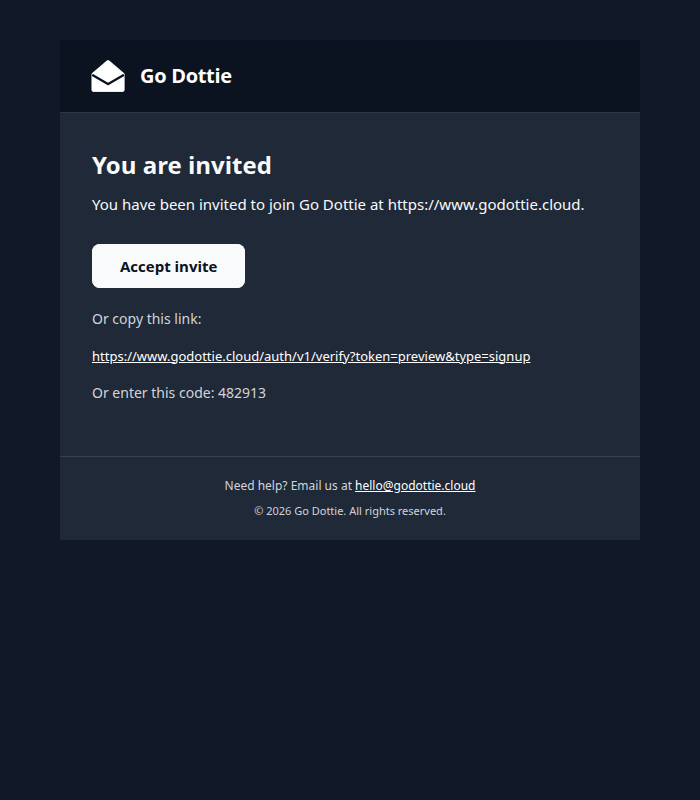
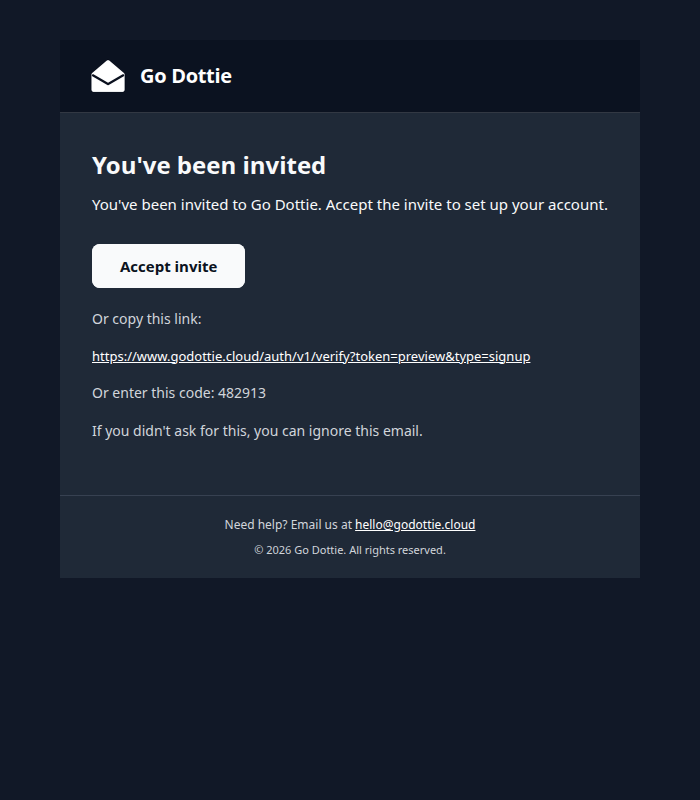
Say Go Dottie in the enquiries UI and update the invite email.

diff --git a/src/components/enquiries/SetupWizard.tsx b/src/components/enquiries/SetupWizard.tsx
@@ -277,8 +277,8 @@ export default function SetupWizard() {
 
       {step === 0 && (
         <section className="space-y-4">
-          <h1 className="text-2xl font-extrabold text-gray-900">Tell Dottie about your setting</h1>
-          <p className="text-gray-500 text-sm">This is how she introduces you to new parents. Use the name they already know.</p>
+          <h1 className="text-2xl font-extrabold text-gray-900">Tell Go Dottie about your setting</h1>
+          <p className="text-gray-500 text-sm">This is how it introduces you to new parents. Use the name they already know.</p>
           <div className="space-y-1.5">
             <Label>Your name</Label>
             <Input value={displayName} onChange={(e) => setDisplayName(e.target.value)} placeholder="Mary" />
@@ -317,7 +317,7 @@ export default function SetupWizard() {
             <Input type="number" min={0} step="0.01" value={dayRate} onChange={(e) => setDayRate(e.target.value)} placeholder="65" />
             <label className="flex items-center gap-2 text-sm text-gray-600 pt-1">
               <input type="checkbox" checked={quoteFees} onChange={(e) => setQuoteFees(e.target.checked)} />
-              Dottie may mention this rate in emails
+              Go Dottie may mention this rate in emails
             </label>
           </div>
         </section>
@@ -326,7 +326,7 @@ export default function SetupWizard() {
       {step === 1 && (
         <section className="space-y-4">
           <h1 className="text-2xl font-extrabold text-gray-900">Which days have space?</h1>
-          <p className="text-gray-500 text-sm">Only tick days you could take a new child. Dottie will never offer a day you leave blank.</p>
+          <p className="text-gray-500 text-sm">Only tick days you could take a new child. Go Dottie will never offer a day you leave blank.</p>
           <div className="space-y-2">
             {vacancies.map((v, i) => {
               const day = WEEKDAYS.find((d) => d.id === v.weekday)!
@@ -426,7 +426,7 @@ export default function SetupWizard() {
       {step === 3 && (
         <section className="space-y-4">
           <h1 className="text-2xl font-extrabold text-gray-900">When can parents visit?</h1>
-          <p className="text-gray-500 text-sm">Dottie only offers these times. Pick evenings after the children have gone home.</p>
+          <p className="text-gray-500 text-sm">Go Dottie only offers these times. Pick evenings after the children have gone home.</p>
           <label className="flex items-center gap-2 font-medium">
             <input type="checkbox" checked={tueEve} onChange={(e) => setTueEve(e.target.checked)} />
             Tuesday evening
@@ -456,7 +456,7 @@ export default function SetupWizard() {
         <section className="space-y-4">
           <h1 className="text-2xl font-extrabold text-gray-900">Your answers</h1>
           <p className="text-gray-500 text-sm">
-            Dottie only uses what you write here. If you leave an answer blank, she will say she will check with you.
+            Go Dottie only uses what you write here. If you leave an answer blank, it will say it will check with you.
           </p>
           {faqs.map((f, i) => (
             <div key={i} className="rounded-2xl border border-gray-100 bg-white p-4 space-y-2">
@@ -508,12 +508,12 @@ export default function SetupWizard() {
               onChange={(e) => setPackNotes(e.target.value)}
               placeholder="I email my parent contract, child information form, and privacy notice. Settling-in is two mornings in the first week."
             />
-            <p className="text-xs text-gray-400">You can attach the real PDFs later. For now, tell Dottie what the pack includes.</p>
+            <p className="text-xs text-gray-400">You can attach the real PDFs later. For now, tell Go Dottie what the pack includes.</p>
           </div>
           <div className="rounded-2xl border border-gray-100 bg-white p-4 space-y-4">
             <p className="text-sm font-semibold text-gray-900">Your letter</p>
             <p className="text-xs text-gray-500">
-              Dottie always writes: greeting, the place, hours if needed, a visit ask, then your name. You can add a line and turn waitlist on or off.
+              Go Dottie always writes: greeting, the place, hours if needed, a visit ask, then your name. You can add a line and turn waitlist on or off.
             </p>
             <div className="space-y-2">
               <p className="text-sm font-medium text-gray-800">When you win a place</p>
@@ -568,7 +568,7 @@ export default function SetupWizard() {
             </div>
             {learnedNuances.length > 0 ? (
               <div className="space-y-2">
-                <Label>What Dottie has learned</Label>
+                <Label>What Go Dottie has learned</Label>
                 <ul className="space-y-2">
                   {learnedNuances.map((n, i) => (
                     <li key={`${n}-${i}`} className="flex items-start gap-2 text-sm text-gray-700">
@@ -586,7 +586,7 @@ export default function SetupWizard() {
                 </ul>
               </div>
             ) : (
-              <p className="text-xs text-gray-400">When a draft sounds like you, tap Remember this wording on the parent page. Dottie will reuse those lines.</p>
+              <p className="text-xs text-gray-400">When a draft sounds like you, tap Remember this wording on the parent page. Go Dottie will reuse those lines.</p>
             )}
           </div>
           <div className="rounded-2xl border border-gray-100 bg-white p-4 space-y-3">
@@ -599,7 +599,7 @@ export default function SetupWizard() {
                 placeholder="Optional. Example: Don't mention the dog. Always offer a Saturday if I have listed it."
               />
               <p className="text-xs text-gray-400">
-                These sit under Dottie&apos;s locked rules: polite enquiry letters whose job is to secure a visit.
+                These sit under Go Dottie&apos;s locked rules: polite enquiry letters whose job is to secure a visit.
               </p>
             </div>
           </div>
@@ -613,7 +613,7 @@ export default function SetupWizard() {
 
       {step === 5 && (
         <section className="space-y-4">
-          <h1 className="text-2xl font-extrabold text-gray-900">How should Dottie send?</h1>
+          <h1 className="text-2xl font-extrabold text-gray-900">How should Go Dottie send?</h1>
           <p className="text-gray-500 text-sm">
             You can change this later on New parents. Auto-send is the default. Draft &amp; approve is opt-in. Pause always stops reading Gmail, drafts, and sends.
           </p>

diff --git a/src/app/(dashboard)/enquiries/[id]/ProspectDetail.tsx b/src/app/(dashboard)/enquiries/[id]/ProspectDetail.tsx
@@ -130,7 +130,7 @@ export default function ProspectDetail({
         setDraftBody(data.draft?.body || '')
         toast.success(
           data.needsHuman
-            ? 'Dottie needs you — she was not sure enough to send this.'
+            ? 'Go Dottie needs you — it was not sure enough to send this.'
             : 'Draft ready — read it, then approve to send from Gmail.',
         )
       }
@@ -186,7 +186,7 @@ export default function ProspectDetail({
       toast.success(
         sendMode === 'auto'
           ? 'Sent from your Gmail.'
-          : 'Sent from your Gmail. Dottie will not send again unless you approve.',
+          : 'Sent from your Gmail. Go Dottie will not send again unless you approve.',
       )
       router.refresh()
     } catch (err) {
@@ -265,8 +265,8 @@ export default function ProspectDetail({
 
       {prospect.needs_human ? (
         <div className="rounded-2xl bg-amber-50 border border-amber-200 p-4 text-sm text-amber-950 space-y-2">
-          <p className="font-semibold">Dottie needs you</p>
-          <p>She could not answer this with full confidence, so she did not send it.</p>
+          <p className="font-semibold">Go Dottie needs you</p>
+          <p>It could not answer this with full confidence, so it did not send it.</p>
           <ul className="list-disc pl-5 space-y-1">
             {(prospect.escalate_reasons || []).map((r) => (
               <li key={r}>{(ESCALATE_LABELS as Record<string, string>)[r] || r}</li>
@@ -287,7 +287,7 @@ export default function ProspectDetail({
         <div className="rounded-2xl border border-emerald-100 bg-white p-4 space-y-4">
           <p className="font-semibold text-gray-900">Add to Your answers</p>
           <p className="text-sm text-gray-500">
-            Dottie can remember this for next time. Approve only setting facts, never a child&apos;s health.
+            Go Dottie can remember this for next time. Approve only setting facts, never a child&apos;s health.
           </p>
           {pending.map((item) => (
             <PendingFactCard
@@ -301,7 +301,7 @@ export default function ProspectDetail({
 
       {agentPaused ? (
         <p className="text-sm text-amber-900 bg-amber-50 border border-amber-200 rounded-2xl px-4 py-3">
-          Dottie is paused. Turn her back on from New parents to read Gmail, draft, or send.
+          Go Dottie is paused. Turn it back on from New parents to read Gmail, draft, or send.
         </p>
       ) : null}
 
@@ -378,7 +378,7 @@ export default function ProspectDetail({
       {prospect.stage === 'started' ? (
         <div className="rounded-2xl bg-emerald-50 border border-emerald-200 p-4 text-sm text-emerald-950 space-y-2">
           <p className="font-semibold">Onboarded</p>
-          <p>Dottie can raise invoices from their days and rates. Parents pay by bank transfer — not through Dottie.</p>
+          <p>Go Dottie can raise invoices from their days and rates. Payments go straight to you, not to Go Dottie.</p>
           <Link
             href="/invoices/new"
             className="inline-flex items-center h-10 px-4 rounded-xl bg-emerald-600 hover:bg-emerald-700 text-white text-sm font-medium"
@@ -437,7 +437,7 @@ export default function ProspectDetail({
           </div>
           <p className="text-xs text-gray-400">
             {gmailConnected
-              ? `Sends as ${gmailEmail} on the Gmail thread — not from a Dottie address.`
+              ? `Sends as ${gmailEmail} on the Gmail thread — not from a Go Dottie address.`
               : 'Connect Gmail on the inbox so Go Dottie can send as you on the real thread.'}
           </p>
         </div>

diff --git a/src/app/(dashboard)/enquiries/page.tsx b/src/app/(dashboard)/enquiries/page.tsx
@@ -74,9 +74,9 @@ export default async function EnquiriesPage({
           <h1 className="text-2xl font-bold text-gray-900">New parents</h1>
           <p className="text-gray-500 text-sm mt-1">
             {settings.agent_paused
-              ? 'Dottie is paused — she will not read Gmail, draft, or send until you turn her back on.'
+              ? 'Go Dottie is paused — it will not read Gmail, draft, or send until you turn it back on.'
               : sendMode === 'auto'
-                ? 'New parent emails from Gmail show up here. Auto-send is on: Dottie replies on the real Gmail thread.'
+                ? 'New parent emails from Gmail show up here. Auto-send is on: Go Dottie replies on the real Gmail thread.'
                 : 'New parent emails from Gmail show up here. Draft & approve is on — nothing sends until you tap Approve.'}
           </p>
         </div>
@@ -109,9 +109,9 @@ export default async function EnquiriesPage({
           <p className="font-semibold text-gray-900 mb-2">No one waiting</p>
           <p className="text-gray-500 text-sm max-w-md mx-auto mb-6">
             {settings.agent_paused
-              ? 'Dottie is paused, so she is not checking Gmail. Turn her back on when you want new parent emails to land here.'
+              ? 'Go Dottie is paused, so it is not checking Gmail. Turn it back on when you want new parent emails to land here.'
               : gmailAccount?.email
-                ? 'Label parent emails Enquiries or New parent in Gmail. Dottie only saves classified enquiry threads — receipts and personal mail are never stored.'
+                ? 'Label parent emails Enquiries or New parent in Gmail. Go Dottie only saves classified enquiry threads — receipts and personal mail are never stored.'
                 : 'Connect Gmail above, or tap Add a parent and paste a message. Go Dottie drafts a polite visit letter and, with Auto-send on, sends it from your Gmail.'}
           </p>
           <Link href="/enquiries/new" className="text-emerald-700 font-semibold">

diff --git a/docs/email-renders/authInviteUser.html b/docs/email-renders/authInviteUser.html
@@ -62,8 +62,8 @@
           <tr>
             <td class="email-card ink" style="background-color:#ffffff;padding:36px 32px;color:#0b1220;">
               
-      <h1 class="ink" style="margin:0 0 12px;font-size:24px;font-weight:700;line-height:1.3;color:#0b1220;">You are invited</h1>
-      <p class="ink" style="margin:0 0 16px;font-size:15px;line-height:1.6;color:#0b1220;">You have been invited to join Go Dottie at https://www.godottie.cloud.</p>
+      <h1 class="ink" style="margin:0 0 12px;font-size:24px;font-weight:700;line-height:1.3;color:#0b1220;">You've been invited</h1>
+      <p class="ink" style="margin:0 0 16px;font-size:15px;line-height:1.6;color:#0b1220;">You've been invited to Go Dottie. Accept the invite to set up your account.</p>
       <table role="presentation" cellpadding="0" cellspacing="0" border="0" style="margin:28px 0 20px;"><tr><td align="left"><table role="presentation" cellpadding="0" cellspacing="0" border="0" class="btn" style="margin:0;">
     <tr>
       <td class="btn-fill" align="center" bgcolor="#0b1220" style="border-radius:8px;background-color:#0b1220;">
@@ -74,6 +74,7 @@
     <p class="muted" style="margin:0 0 16px;font-size:14px;line-height:1.6;color:#5b6573;">Or copy this link:</p>
     <p class="ink" style="margin:0 0 16px;font-size:13px;line-height:1.5;word-break:break-all;color:#0b1220;"><a class="link" href="https://www.godottie.cloud/auth/v1/verify?token=preview&type=signup" style="color:#0b1220;text-decoration:underline;">https://www.godottie.cloud/auth/v1/verify?token=preview&type=signup</a></p>
     <p class="muted" style="margin:0 0 16px;font-size:14px;line-height:1.6;color:#5b6573;">Or enter this code: 482913</p>
+      <p class="muted" style="margin:0 0 16px;font-size:14px;line-height:1.6;color:#5b6573;">If you didn't ask for this, you can ignore this email.</p>
     
             </td>
           </tr>

diff --git a/supabase/templates/auth/invite.html b/supabase/templates/auth/invite.html
@@ -62,8 +62,8 @@
           <tr>
             <td class="email-card ink" style="background-color:#ffffff;padding:36px 32px;color:#0b1220;">
               
-      <h1 class="ink" style="margin:0 0 12px;font-size:24px;font-weight:700;line-height:1.3;color:#0b1220;">You are invited</h1>
-      <p class="ink" style="margin:0 0 16px;font-size:15px;line-height:1.6;color:#0b1220;">You have been invited to join Go Dottie at {{ .SiteURL }}.</p>
+      <h1 class="ink" style="margin:0 0 12px;font-size:24px;font-weight:700;line-height:1.3;color:#0b1220;">You've been invited</h1>
+      <p class="ink" style="margin:0 0 16px;font-size:15px;line-height:1.6;color:#0b1220;">You've been invited to Go Dottie. Accept the invite to set up your account.</p>
       <table role="presentation" cellpadding="0" cellspacing="0" border="0" style="margin:28px 0 20px;"><tr><td align="left"><table role="presentation" cellpadding="0" cellspacing="0" border="0" class="btn" style="margin:0;">
     <tr>
       <td class="btn-fill" align="center" bgcolor="#0b1220" style="border-radius:8px;background-color:#0b1220;">
@@ -74,6 +74,7 @@
     <p class="muted" style="margin:0 0 16px;font-size:14px;line-height:1.6;color:#5b6573;">Or copy this link:</p>
     <p class="ink" style="margin:0 0 16px;font-size:13px;line-height:1.5;word-break:break-all;color:#0b1220;"><a class="link" href="{{ .ConfirmationURL }}" style="color:#0b1220;text-decoration:underline;">{{ .ConfirmationURL }}</a></p>
     <p class="muted" style="margin:0 0 16px;font-size:14px;line-height:1.6;color:#5b6573;">Or enter this code: {{ .Token }}</p>
+      <p class="muted" style="margin:0 0 16px;font-size:14px;line-height:1.6;color:#5b6573;">If you didn't ask for this, you can ignore this email.</p>
     
             </td>
           </tr>

diff --git a/src/components/enquiries/GmailConnect.tsx b/src/components/enquiries/GmailConnect.tsx
@@ -130,7 +130,7 @@ export default function GmailConnect({
       toast.error('Could not update pause.')
       return
     }
-    toast.success(next ? 'Dottie is paused. She will not read Gmail, draft, or send.' : 'Dottie is back on.')
+    toast.success(next ? 'Go Dottie is paused. It will not read Gmail, draft, or send.' : 'Go Dottie is back on.')
     router.refresh()
   }
 
@@ -150,8 +150,8 @@ export default function GmailConnect({
     }
     toast.success(
       next === 'auto'
-        ? 'Auto-send is on. Dottie will send filtered parent replies after she drafts them.'
-        : 'Draft & approve is on. Dottie will not send until you tap Approve.',
+        ? 'Auto-send is on. Go Dottie will send filtered parent replies after it drafts them.'
+        : 'Draft & approve is on. Go Dottie will not send until you tap Approve.',
     )
     router.refresh()
   }
@@ -207,7 +207,7 @@ export default function GmailConnect({
             <p className="font-semibold text-gray-900">Gmail</p>
             {status?.connected ? (
               <p className="text-sm text-gray-500">
-                Connected as {status.account?.email}. Dottie looks for new childcare enquiries and sends as you on the real Gmail thread.
+                Connected as {status.account?.email}. Go Dottie looks for new childcare enquiries and sends as you on the real Gmail thread.
               </p>
             ) : (
               <p className="text-sm text-gray-500">

diff --git a/src/components/enquiries/EnquiriesPaywall.tsx b/src/components/enquiries/EnquiriesPaywall.tsx
@@ -6,12 +6,12 @@ export default function EnquiriesPaywall() {
   return (
     <div className="max-w-xl mx-auto">
       <div className="rounded-3xl border border-emerald-100 bg-white p-8 shadow-sm text-center">
-        <p className="text-xs font-bold uppercase tracking-widest text-emerald-600 mb-3">Dottie Enquiries</p>
+        <p className="text-xs font-bold uppercase tracking-widest text-emerald-600 mb-3">Go Dottie Enquiries</p>
         <h1 className="text-2xl font-extrabold text-gray-900 mb-3">
           Answer new parents while you&apos;re with the children
         </h1>
         <p className="text-gray-600 leading-relaxed mb-6">
-          Dottie reads the enquiry, checks start date, days, and 15/30-hour funding, and helps you book a visit in <em>your</em> hours. Same Dottie login you already use for invoices.
+          Go Dottie reads the enquiry, checks start date, days, and 15/30-hour funding, and helps you book a visit in <em>your</em> hours. Same Go Dottie login you already use for invoices.
         </p>
         <p className="text-3xl font-extrabold text-gray-900 mb-1">£{ENQUIRIES_PRICE.monthly}<span className="text-base font-semibold text-gray-400">/month</span></p>
         <p className="text-sm text-gray-400 mb-2">or £{ENQUIRIES_PRICE.annual}/year · cancel anytime · no trial</p>

diff --git a/src/lib/email/customer-emails.test.ts b/src/lib/email/customer-emails.test.ts
@@ -218,13 +218,16 @@ test('supabase auth templates stay on the shared layout', () => {
       assert.match(email.html, /\{\{ \.Token \}\}/)
       assert.match(email.html, /btn-fill/)
       assert.match(email.html, /padding:12px 28px/)
-      if (email.id === 'invite') assert.doesNotMatch(email.html, /If you didn't ask for this/)
-      else assert.match(email.html, /If you didn't ask for this, you can ignore this email\./)
+      assert.match(email.html, /If you didn't ask for this, you can ignore this email\./)
     }
     assert.doesNotMatch(previewAuthHtml(email.html), /\{\{/)
   }
   assert.match(authEmails().find((email) => email.id === 'email_change')!.html, /\{\{ \.NewEmail \}\}/)
-  assert.match(authEmails().find((email) => email.id === 'invite')!.html, /\{\{ \.SiteURL \}\}/)
+  const invite = authEmails().find((email) => email.id === 'invite')!
+  assert.equal(invite.subject, "You've been invited to Go Dottie")
+  assert.match(invite.html, /You've been invited to Go Dottie\. Accept the invite to set up your account\./)
+  assert.match(invite.html, /Accept invite/)
+  assert.doesNotMatch(invite.html, /\{\{ \.SiteURL \}\}/)
 })
 
 test('sender names and the live trial email hook', () => {

diff --git a/src/components/enquiries/SendModeToggle.tsx b/src/components/enquiries/SendModeToggle.tsx
@@ -37,7 +37,7 @@ export default function SendModeToggle({
             {value === 'auto' ? 'Auto-send: on' : 'Auto-send'}
             <span className="ml-1 text-[10px] font-bold uppercase tracking-wider text-emerald-700">Default</span>
           </p>
-          <p className="text-xs text-gray-500 mt-1">After a parent enquiry passes the filters, Dottie drafts and sends from your Gmail.</p>
+          <p className="text-xs text-gray-500 mt-1">After a parent enquiry passes the filters, Go Dottie drafts and sends from your Gmail.</p>
         </button>
         <button
           type="button"
@@ -55,7 +55,7 @@ export default function SendModeToggle({
           <p className="font-semibold text-gray-900">
             {value === 'approve' ? 'Draft & approve: on' : 'Draft & approve'}
           </p>
-          <p className="text-xs text-gray-500 mt-1">Dottie writes the reply. You tap send. Nothing goes out until you approve.</p>
+          <p className="text-xs text-gray-500 mt-1">Go Dottie writes the reply. You tap send. Nothing goes out until you approve.</p>
         </button>
       </div>
       {value === 'auto' ? (

diff --git a/src/lib/email/auth-templates.ts b/src/lib/email/auth-templates.ts
@@ -73,12 +73,13 @@ const emails: AuthEmail[] = [
     file: 'invite.html',
     renderFile: 'authInviteUser',
     dashboard: 'Invite user',
-    subject: 'You are invited to Go Dottie',
+    subject: "You've been invited to Go Dottie",
     trigger: 'Supabase Auth invite user. Paste supabase/templates/auth/invite.html into the dashboard.',
     html: renderEmail(`
-      <h1 class="ink" style="${H}">You are invited</h1>
-      <p class="ink" style="${P}">You have been invited to join Go Dottie at {{ .SiteURL }}.</p>
+      <h1 class="ink" style="${H}">You've been invited</h1>
+      <p class="ink" style="${P}">You've been invited to Go Dottie. Accept the invite to set up your account.</p>
       ${confirmBlock('Accept invite')}
+      ${IGNORE}
     `, 'account', { markSrc: AUTH_MARK }),
   },
   {

diff --git a/src/app/(dashboard)/enquiries/new/page.tsx b/src/app/(dashboard)/enquiries/new/page.tsx
@@ -77,7 +77,7 @@ export default function NewProspectPage() {
       <div>
         <Link href="/enquiries" className="text-sm text-emerald-700 font-medium">← Parents</Link>
         <h1 className="text-2xl font-extrabold text-gray-900 mt-3">Add a parent</h1>
-        <p className="text-gray-500 text-sm mt-1">Copy what you know from their email. Blank is fine — Dottie will ask.</p>
+        <p className="text-gray-500 text-sm mt-1">Copy what you know from their email. Blank is fine — Go Dottie will ask.</p>
       </div>
 
       <div className="grid sm:grid-cols-2 gap-4">

diff --git a/src/lib/enquiries/gmail/send.ts b/src/lib/enquiries/gmail/send.ts
@@ -28,8 +28,8 @@ export async function sendApprovedEnquiry(opts: {
   if (!account) {
     throw new Error(
       opts.via === 'auto'
-        ? 'Connect Gmail first so Dottie can send as you on the real thread.'
-        : 'Connect Gmail first so Dottie can send as you on the real thread after you approve.',
+        ? 'Connect Gmail first so Go Dottie can send as you on the real thread.'
+        : 'Connect Gmail first so Go Dottie can send as you on the real thread after you approve.',
     )
   }
 
